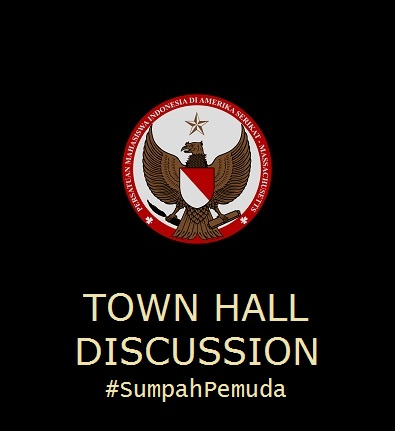
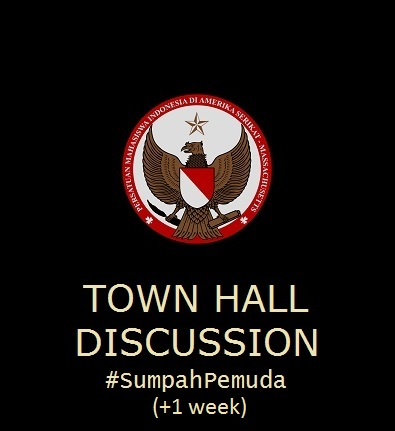
changes

Changed region(s): [[0.1823, 0.6636, 0.8203, 0.9652]]

diff --git a/www/seminar/index.html b/www/seminar/index.html
@@ -132,7 +132,7 @@ Tips for Elastic layouts
 						 
 Saturday, 14 Oct 2017 - Soleh Udin Al Ayubi, Blockchain Technology -
                          <i><b><font color=#4CC417>see the details below</font></b></i> <br />
-Saturday, 28 Oct 2017 - PERMIAS Massachusetts: Town Hall Discussion -
+Saturday,  &nbsp;&thinsp;4 Nov 2017 - PERMIAS Massachusetts: Town Hall Discussion -
                          <i><b><font color=#4CC417>see the details below</font></b></i> <br />
 Saturday, 11 Nov 2017 - Herman Saksono, Human-Computer Interaction -
                          <i><b><font color=#4CC417>see the details below</font></b></i> <br />
@@ -155,7 +155,7 @@ Saturday, &nbsp;&thinsp;2 Dec 2017 - Novalia Pishesha, Bio. Engineering & Techno
 
 
 <i>"Blockchain Technology: What is it and what is it for?"</i>&thinsp;
-<small>[<a href="http://www.facebook.com/events/xxxxxxxxxxxxxxxx/" target="blank">Facebook Event Page<a>]</small>
+<small>[<a href="http://www.facebook.com/events/435407923522928/" target="blank">Facebook Event Page<a>]</small>
 <hr width="650" size="2" align="left">
 <!-- -->
 <table width="650" border="0" cellspacing="1" cellpadding="0">
@@ -165,14 +165,14 @@ Saturday, &nbsp;&thinsp;2 Dec 2017 - Novalia Pishesha, Bio. Engineering & Techno
 </tr>
 <tr>  <td width="90"> Date/Time </td> <td>:&nbsp;</td>  <td> Saturday, 14 October 2017 / 1:00pm </td>
 </tr>
-<tr>  <td width="90"> Location  </td> <td>:&nbsp;</td>  <td> MIT Campus, Room TBA </td>
+<tr>  <td width="90"> Location  </td> <td>:&nbsp;</td>  <td> MIT Campus, Room 3-333 </td>
 </tr>
 </table>
 <!-- -->
 <span style="font-size: 5px;">&nbsp;</span><br />
 <img src="images/s24_blockchain.jpg" title="Blockchain Technology" width="400" height="407" />
 <!-- -->
-<br /> <small>For more information & direction, see the <a href="http://whereis.mit.edu/?go=4" target="blank">MIT campus map<a></small>
+<br /> <small>For more information & direction, see the <a href="http://whereis.mit.edu/?go=3" target="blank">MIT campus map<a></small>
 <br />
 <br />
 <br />
@@ -188,9 +188,9 @@ Saturday, &nbsp;&thinsp;2 Dec 2017 - Novalia Pishesha, Bio. Engineering & Techno
 </tr>
 <tr>  <td width="90">           </td> <td>       </td>  <td> --- </td>
 </tr>
-<tr>  <td width="90"> Date/Time </td> <td>:&nbsp;</td>  <td> Saturday, 28 October 2017 / 1:00pm </td>
+<tr>  <td width="90"> Date/Time </td> <td>:&nbsp;</td>  <td> Saturday, 4 November 2017 / 1:00pm </td>
 </tr>
-<tr>  <td width="90"> Location  </td> <td>:&nbsp;</td>  <td> MIT Campus, Room TBA </td>
+<tr>  <td width="90"> Location  </td> <td>:&nbsp;</td>  <td> MIT Campus, Room 3-333 </td>
 </tr>
 </table>
 <!-- -->
@@ -204,7 +204,7 @@ Let us hear from you!</i><br />
 <span style="font-size: 5px;">&nbsp;</span><br />
 <img src="images/s25_townhallpemuda.jpg" title="PERMIAS Massachusetts Town Hall Discussion" width="400" height="429" />
 <!-- -->
-<br /> <small>For more information & direction, see the <a href="http://whereis.mit.edu/?go=4" target="blank">MIT campus map<a></small>
+<br /> <small>For more information & direction, see the <a href="http://whereis.mit.edu/?go=3" target="blank">MIT campus map<a></small>
 <br />
 <br />
 <br />
@@ -223,14 +223,14 @@ Let us hear from you!</i><br />
 </tr>
 <tr>  <td width="90"> Date/Time </td> <td>:&nbsp;</td>  <td> Saturday, 11 November 2017 / 1:00pm </td>
 </tr>
-<tr>  <td width="90"> Location  </td> <td>:&nbsp;</td>  <td> MIT Campus, Room TBA </td>
+<tr>  <td width="90"> Location  </td> <td>:&nbsp;</td>  <td> MIT Campus, Room 3-333 </td>
 </tr>
 </table>
 <!-- -->
 <span style="font-size: 5px;">&nbsp;</span><br />
 <img src="images/s26_humancomputer.jpg" title="Human-Computer Interaction, Inclusive Technology" width="400" height="425" />
 <!-- -->
-<br /> <small>For more information & direction, see the <a href="http://whereis.mit.edu/?go=4" target="blank">MIT campus map<a></small>
+<br /> <small>For more information & direction, see the <a href="http://whereis.mit.edu/?go=3" target="blank">MIT campus map<a></small>
 <br />
 <br />
 <br />
@@ -248,14 +248,14 @@ Let us hear from you!</i><br />
 </tr>
 <tr>  <td width="90"> Date/Time </td> <td>:&nbsp;</td>  <td> Saturday, 2 December 2017 / 1:00pm </td>
 </tr>
-<tr>  <td width="90"> Location  </td> <td>:&nbsp;</td>  <td> MIT Campus, Room TBA </td>
+<tr>  <td width="90"> Location  </td> <td>:&nbsp;</td>  <td> MIT Campus, Room 3-333 </td>
 </tr>
 </table>
 <!-- -->
 <span style="font-size: 5px;">&nbsp;</span><br />
 <img src="images/s27_redblood.jpg" title="Engineering Red Blooc Cells" width="400" height="455" />
 <!-- -->
-<br /> <small>For more information & direction, see the <a href="http://whereis.mit.edu/?go=4" target="blank">MIT campus map<a></small>
+<br /> <small>For more information & direction, see the <a href="http://whereis.mit.edu/?go=3" target="blank">MIT campus map<a></small>
 <br />
 <br />
 <br />
